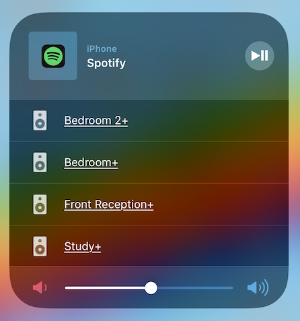
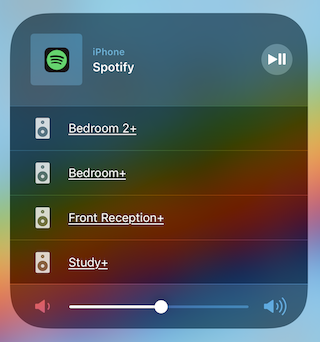
Minor changes.

diff --git a/sonoplus-faq/index.md b/sonoplus-faq/index.md
@@ -9,7 +9,7 @@ title: FAQ
 
 ## What's included?
 
-The SonoPlus is a standard Raspberry Pi 3 computer housed in the official red and white Raspberry Pi case, as shown above. Included are a preinstalled 32GB memory card, an Ethernet cable (2m) and an official Raspberry Pi power supply.
+The SonoPlus is a Raspberry Pi 3 computer housed in the official red and white Raspberry Pi case, as shown above. Included are a preinstalled 32GB memory card, an Ethernet cable (2m) and an official Raspberry Pi power supply.
 
 ## How do I set up my SonoPlus?
 
@@ -21,7 +21,7 @@ SonoPlus is an 'appliance', and no end-user configuration or management is requi
 
 Your older Sonos speakers simply appear as new AirPlay targets, and they can be used and controlled exactly like 'native' AirPlay speakers. The SonoPlus speakers are denoted by a '+' after their Sonos room name, e.g.:
 
-![SonoPlus](/images/AirPlayMenu.png)
+![SonoPlus](/images/AirPlayMenu_Smaller.png)
 
 SonoPlus supports multiple simultaneous AirPlay streams from different Apple devices to different Sonos speakers, and works with speakers that are grouped via the Sonos app.
 
